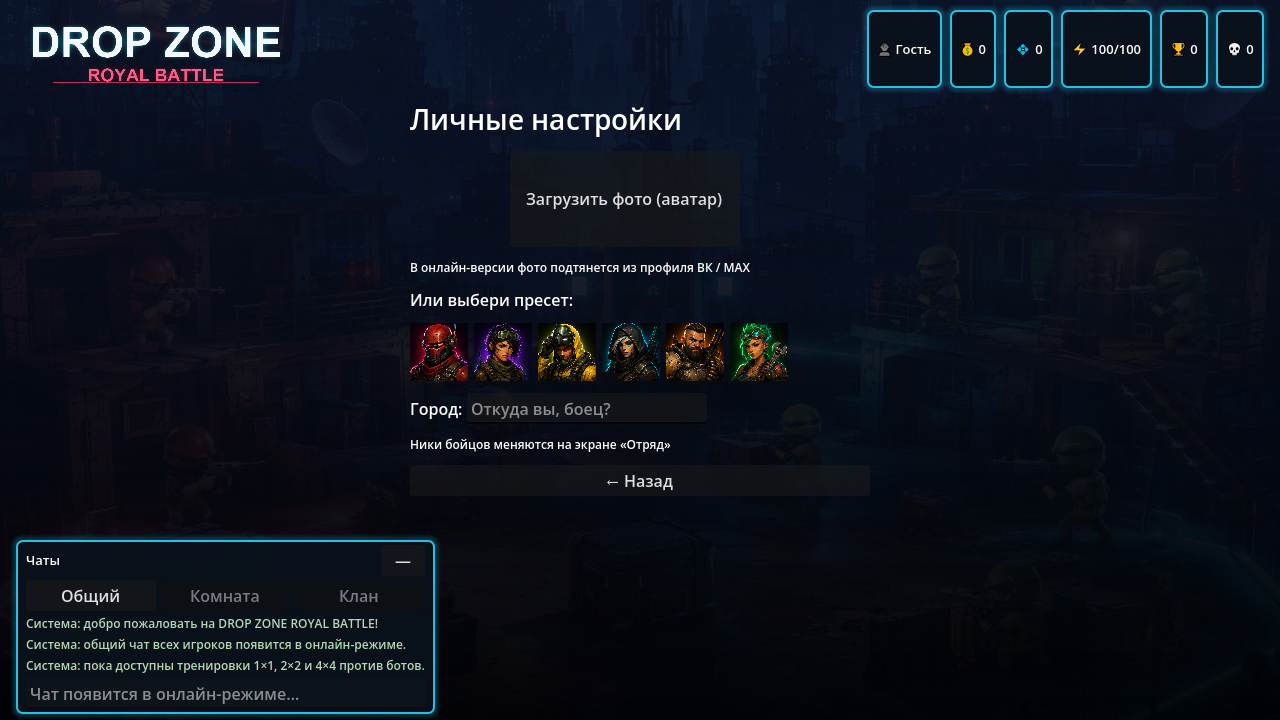
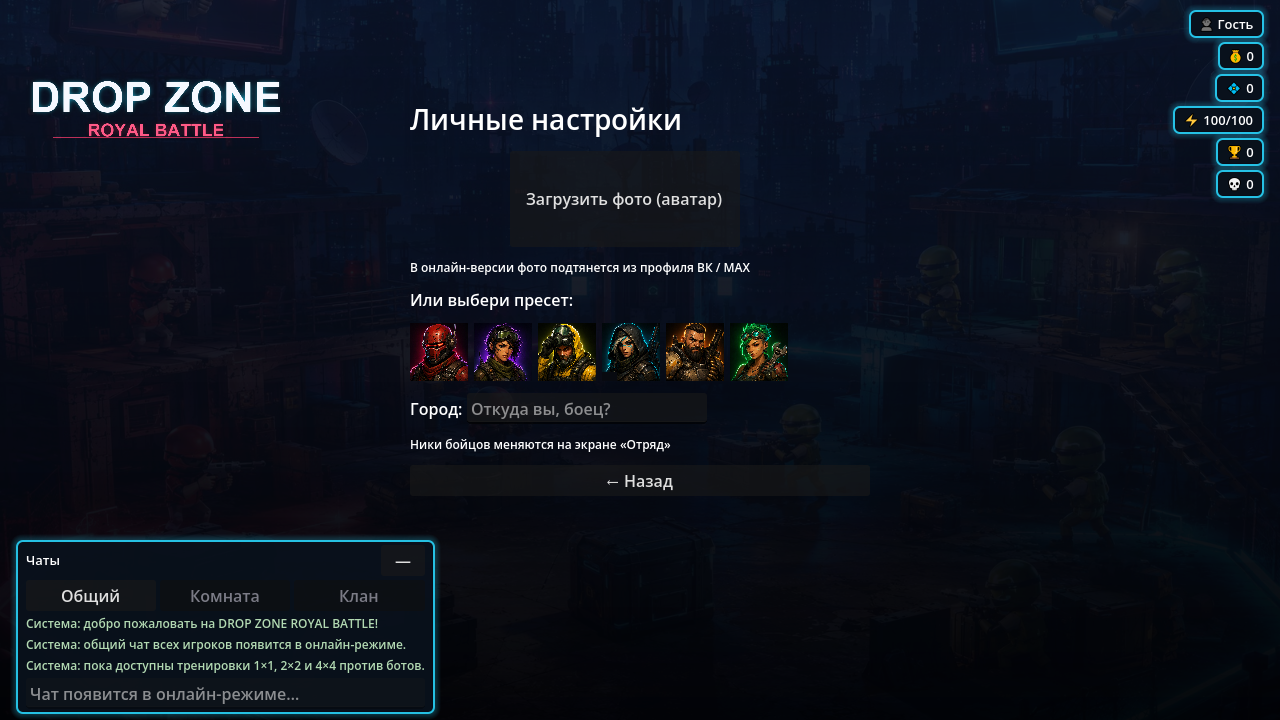
v6.39 — мобильная вёрстка: stretch disabled, DPR-aware _vw(), адаптив лобби/отряда

Changed region(s): [[0.6562, 0.0, 1.0, 0.275], [0.0, 0.0306, 0.2188, 0.2139], [0.6875, 0.1222, 0.7188, 0.1528]]

diff --git a/docs/PROJECT_BRIEF.md b/docs/PROJECT_BRIEF.md
@@ -443,3 +443,17 @@ game/data/items.json: все шлема/нагрудники/штаны — weig
 - Сундуки: гаранты — 3 тонких ProgressBar (10/30/80), кнопка открытия крупная золотая (bg #C78C1A, radius 12, font 18).
 - Личные: аватар 96×96. Настройки — без изменений (соответствуют ТЗ).
 - Тесты: --testmenu / --testauthwide зелёные. Билд + деплой OK (7 файлов, 0 ошибок).
+
+## Git/GitHub (2026-09-03)
+- Репозиторий: https://github.com/mgnLan/drop-zone (private), ветка main, origin привязан.
+- .gitignore: движок Godot, .godot, web_build, assets_src (1.3 ГБ), *.zip, deploy_regru/ftp_config.json (СЕКРЕТ, не коммитить!).
+- В git 427 файлов: game/ (код, модели, звуки, иконки), api/index.php, docs/, tools/, legacy_reference/.
+- Перед правками: git pull; после: commit + push.
+
+## v6.39 (2026-09-03) — мобильная вёрстка
+- project.godot: stretch/mode canvas_items+keep_height → disabled+expand. ГРАБЛЯ: canvas_items давал логические 1280px ширины на телефоне (масштаб 0.28 — микро-UI), а keep_height clamp'ил окно под 16:9.
+- _vw()/_vh() — CSS-пиксели: на web делим на window.devicePixelRatio через JavaScriptBridge (DPR 3 на телефонах). Все чтения get_visible_rect().size в меню/авторизации/бою переведены на _vw()/_vh().
+- Лобби на узком (<520px): лого 150×44, чипы — FlowContainer (перенос в 2-3 ряда), чат на всю ширину и стартует СВЁРНУТЫМ (конверты), scroll с полями 12px, ссылки поддержки — FlowContainer.
+- Отряд: заголовок 20px+autowrap, слоты адаптивной ширины (vw/4), заблокированные — «🔒 N», цвет ника — FlowContainer.
+- Тест: --testmenumobile (окно 360×800, скрины docs/test_*_mob.png: menu/squad/shop/chests/profile).
+- Регрессия: --testmenu, --testplay (ARMOR/BARREL) зелёные. Билд + деплой OK.
